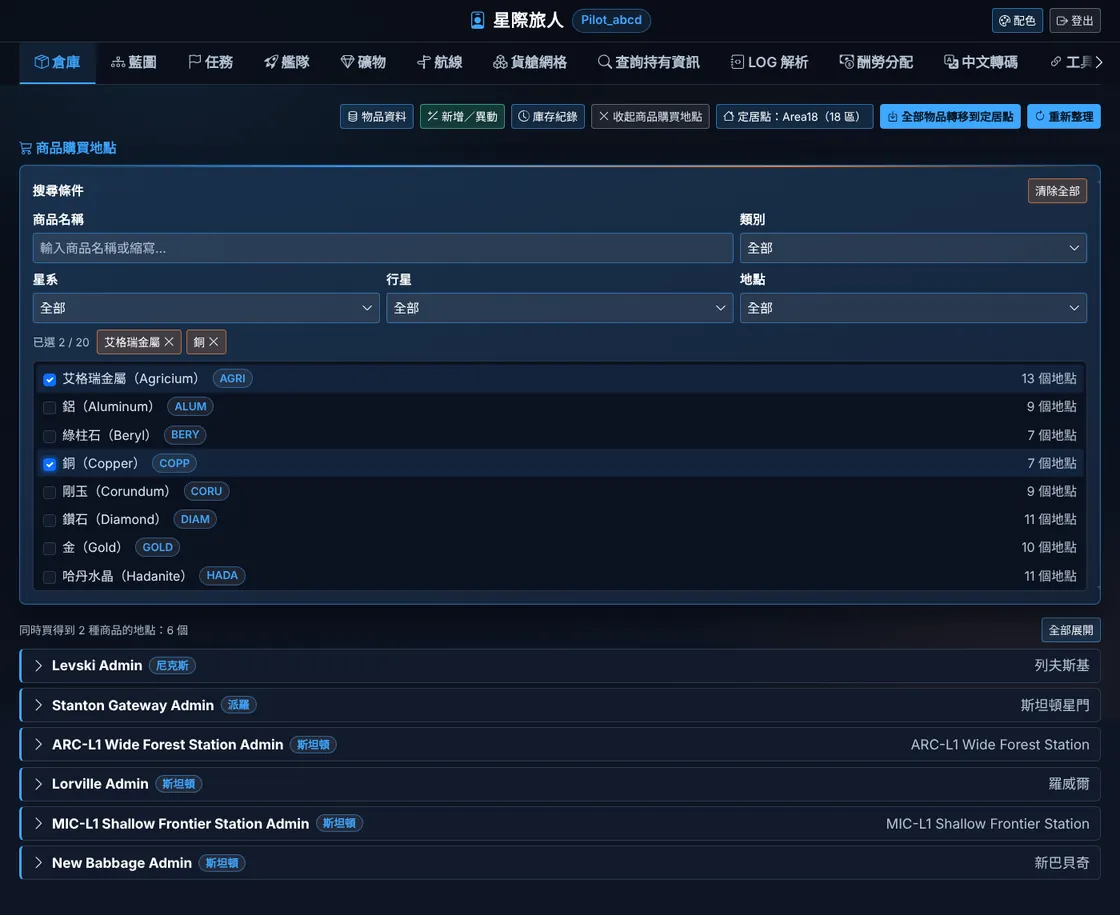
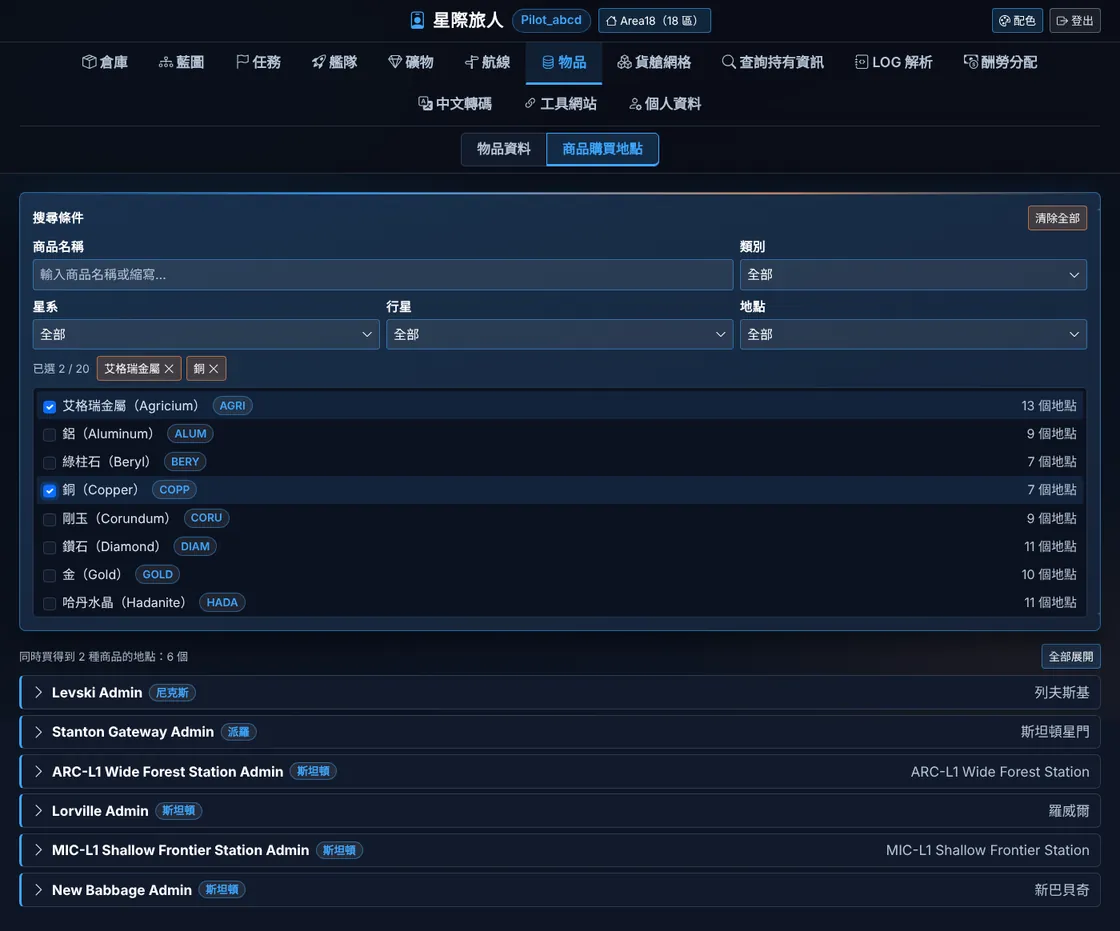
使用說明更新倉庫、物品、定居點與分頁設定的圖文

Changed region(s): [[0.0, 0.0, 1.0, 0.9792], [0.9062, 0.0, 0.9375, 0.0306]]

diff --git a/frontend/src/views/PlayerHelpView.vue b/frontend/src/views/PlayerHelpView.vue
@@ -73,31 +73,30 @@ const sections = [
         '「個人資料 › 顯示的分頁」可以把用不到的分頁藏起來。',
         '多數表單（航線、合約、貨艙、酬勞…）會記在這台瀏覽器，下次打開還在；換電腦或清除瀏覽器資料就不會留著。',
       ] },
+      { title: '定居點', figs: [{ src: 'home', alt: '名字右邊的定居點按鈕與視窗' }], items: [
+        '最上方名字右邊的按鈕顯示目前的定居點，點一下跳出視窗，可以設定或清除（從可選的居住地挑一個）。',
+        '同一個視窗下方是「全部物品轉移到定居點」：列出會移動幾筆、幾件，按「確定轉移」才送出。',
+      ] },
     ],
   },
   {
     id: 'warehouse', title: '倉庫', icon: 'bi bi-box-seam',
-    intro: '記錄自己的物品放在哪裡、有多少。上方的按鈕可以展開各個功能，搜尋卡的條件同時套用到列表。',
+    intro: '記錄自己的物品放在哪裡、有多少。上方的按鈕可以展開新增／異動、庫存紀錄，搜尋卡的條件同時套用到列表。',
     blocks: [
       { title: '物品庫存', figs: [{ src: 'warehouse', alt: '物品庫存' }], items: [
         '列出你登記的物品、地點、數量；可以依物品名稱、類型、地點篩選與排序。',
       ] },
-      { title: '新增／異動', figs: [{ src: 'warehouse_stock', alt: '新增／異動' }], items: [
-        '一次可以填好幾筆：選物品、地點、數量，每筆各自選「＋ 增加」或「－ 減少」，可以加備註，送出後寫進庫存。',
+      { title: '新增／異動', figs: [{ src: 'stock_step1', alt: '第 1 步：地點' }, { src: 'warehouse_pick', alt: '第 2 步：勾選物品' }, { src: 'warehouse_paste', alt: '貼上清單比對物品' }, { src: 'warehouse_stock', alt: '第 3 步：設定數量' }], items: [
+        '按「新增／異動」跳出視窗，分三步：地點 → 物品 → 數量；上方的步驟可以直接點回去改。',
+        '1. 地點：用星系、行星縮小範圍，選或輸入地點。會自動帶上次送出用的地點（第一次用定居點），已經有地點時直接從第 2 步開始。',
+        '2. 物品：搜尋條件跟倉庫一樣（名稱、類型、拆解材料）。物品類型預設只開量子引擎、護盾、雷達、艦炮、冷卻器、發電機六種飛船組件，需要其他類型（例如飛彈、頭盔）就在「物品類型」自己加勾，會記在這台瀏覽器；全部取消就回到預設。清單逐個勾或整頁全選，換頁、改條件都不會清掉已選的，數量不限。',
+        '「最近登記」（只列開啟的類型）點一下就勾選；「貼上清單」只比對開啟的類型，每行一個物品，數量寫在前或後都可以（例如 Atlas x2、Bulwark 3、2 Hunter），比對後「加入已選」。',
+        '3. 數量：每一項選「＋ 增加」或「－ 減少」、數量（預設 1）、備註，也可以一次全部改成增加或減少，最後「全部送出」。失敗的會留在清單上顯示原因；全部成功就回到第 2 步，同一個地點繼續登記。',
+        '庫存列表每一列的「異動」：直接帶好地點和物品（預設減少），停在第 3 步。',
+        'Discord 機器人也能登記：/add 入庫、/remove 出庫、/move 換位置。',
       ] },
       { title: '庫存紀錄', figs: [{ src: 'warehouse_history', alt: '庫存紀錄' }], items: [
         '每次增加、減少的歷史紀錄（時間、物品、地點、數量、備註）。',
-      ] },
-      { title: '定居點', items: [
-        '設定你的定居點（從可選的居住地挑一個）。',
-        '「全部物品轉移到定居點」會把所有物品的地點改成定居點，確認後才送出。',
-      ] },
-      { title: '物品資料', figs: [{ src: 'warehouse_items', alt: '物品資料' }], items: [
-        '瀏覽遊戲物品資料庫（含飛船組件），點名稱看詳細數值與購買地點。',
-        '可以只看買得到的、只看可拆解的，或依拆解後會得到的材料找物品。',
-      ] },
-      { title: '商品購買地點', figs: [{ src: 'warehouse_commodities', alt: '勾選兩種商品，列出都買得到的終端' }], items: [
-        '勾選好幾種商品，列出「全部都買得到」的交易終端，可以再依星系、行星、地點縮小範圍；價格來自 UEX 玩家回報。',
       ] },
     ],
   },
@@ -111,7 +110,7 @@ const sections = [
         '也可以展開「品質試算」：調整每個部位放的材料品質（0–1000），即時看成品各屬性的倍率。',
       ] },
       { title: '登記藍圖資料', items: [
-        '搜尋藍圖資料庫（中英文都可以），把有的藍圖登記進名冊。',
+        '按「登記藍圖資料」跳出視窗，搜尋藍圖資料庫（中英文都可以），把有的藍圖登記進名冊。',
         '可以「只顯示未登記」、「只看需任務解鎖」的藍圖。',
       ] },
     ],
@@ -124,7 +123,7 @@ const sections = [
         '藍圖欄顯示這個任務會給的藍圖中，你已登記幾張／共幾張；點一列看說明、條件、每個獎勵池的藍圖與掉落機率。',
       ] },
       { title: '勢力聲望', items: [
-        '選一個勢力，列出它的聲望階級與門檻分數，以及每個階級才能接的任務。',
+        '按「勢力聲望」跳出視窗，選一個勢力，列出它的聲望階級與門檻分數，以及每個階級才能接的任務。',
       ] },
     ],
   },
@@ -137,7 +136,7 @@ const sections = [
         '「航線」與「貨艙網格」會把機庫裡的船排在最前面。',
       ] },
       { title: '登記船艦資料', items: [
-        '瀏覽艦船資料庫，依名稱、類型、尺寸、廠商、價格、貨物量、取得方式篩選，把船加進艦隊。',
+        '按「登記船艦資料」跳出視窗，瀏覽艦船資料庫，依名稱、類型、尺寸、廠商、價格、貨物量、取得方式篩選，把船加進艦隊。',
       ] },
       { title: 'JSON 匯入', items: [
         '用瀏覽器擴充功能 HangarXPLOR 在 RSI 機庫頁匯出的 JSON，一次匯入整個機庫。',
@@ -180,6 +179,19 @@ const sections = [
         '按「分析分配」，得到「最快完成」「總時間最少」「總油量最少」三種方案：哪一趟貨給哪一隊，以及各隊的航段表與 3D 星圖。',
         '同名商品分屬不同合約時會提醒取貨時分開放、送貨時分開繳交；外掛貨櫃船（Hull 系列）只會派到有外部貨運的站。',
         '各隊的航段表一樣可以標已去過、調整順序、中途插入重新規劃。',
+      ] },
+    ],
+  },
+  {
+    id: 'items', title: '物品', icon: 'bi bi-database',
+    intro: '分「物品資料」和「商品購買地點」兩個子分頁。',
+    blocks: [
+      { title: '物品資料', figs: [{ src: 'warehouse_items', alt: '物品資料' }], items: [
+        '瀏覽遊戲物品資料庫（含飛船組件），點名稱看詳細數值與購買地點。',
+        '可以依名稱、類型篩選，只看買得到的、只看可拆解的，或依拆解後會得到的材料找物品。',
+      ] },
+      { title: '商品購買地點', figs: [{ src: 'warehouse_commodities', alt: '勾選兩種商品，列出都買得到的終端' }], items: [
+        '勾選好幾種商品，列出「全部都買得到」的交易終端，可以再依星系、行星、地點縮小範圍；價格來自 UEX 玩家回報。',
       ] },
     ],
   },
@@ -240,7 +252,7 @@ const sections = [
     blocks: [
       { figs: [{ src: 'profile', alt: '個人資料' }], items: [
         '修改暱稱、查看 Discord 綁定、更改密碼。',
-        '「顯示的分頁」：勾選要顯示哪些分頁。',
+        '「顯示的分頁」：勾選要顯示哪些分頁；有些分頁預設不顯示，需要時在這裡打開。',
       ] },
     ],
   },

diff --git a/README.md b/README.md
@@ -139,7 +139,7 @@ docker compose exec api git log --oneline -1 2>/dev/null || docker compose exec 
 | 資料庫檢視 | http://localhost:8080/admin/data | 唯讀，沒有專屬後台頁面的資料表（Wiki 商品、藍圖品質、UEX 物品／載具／原礦價格、UEX 精煉四張表、翻譯、同步紀錄…）依類別列出筆數，點一個看文件：可選欄位＋關鍵字搜尋、點欄位名稱排序，點一列看完整內容（含 raw）。開放的資料表在 `src/models/data_browser.py` 的 CATALOG，帳號、玩家、token 一律不列；API 在 `/data/collections`。礦物資料庫的「精煉站」分頁用同一套列出 UEX 精煉資料 |
 | 商品資料庫 | http://localhost:8080/admin/commodities | 唯讀，由「UEX 價格」同步項目更新（需 UEX token）。三個分頁直接列資料庫內容方便檢查：「商品」UEX 商品（縮寫代碼如 AGRI、QUAN、類別、參考買賣價、屬性，每筆列出關聯的礦物）；「商品價格」`uex_commodities_prices`（商品 × 交易終端的買價／庫存／賣價／更新時間，後端分頁）；「交易終端」`uex_terminals`（地點、類型、屬性、可買／可賣商品數） |
 | 登記船艦資料／船艦價格 | http://localhost:8090/player/me?tab=fleet&sub=data | 玩家頁「艦隊 › 登記船艦資料」：用艦隊分頁頂端的共用搜尋卡篩選載具主檔（含「取得方式」：只看可用遊戲幣購買／可租船，多選取聯集；後台艦船列表也有，API 參數 `acquire=buy|rent`），列表直接顯示類型、尺寸、廠商、角色；每列有「登記」按鈕（登記 1 艘到我的艦隊），也能勾選多款一次登記（原本的「批量登記」併進來，已登記的標示並禁止重複）。點開看載員、貨艙、質量與價格：官網現金價（`msrp`，美金）、遊戲內最低購買價與租船價（UEX，aUEC）以及每個購買／租船地點。我的艦隊每艘船也顯示這三個價格。後台「艦船」列表多「遊戲內購買」「租船」兩欄（點開看地點），另有「購買價格」「租船價格」分頁列 UEX 價格表原始內容（含對不到載具主檔的） |
-| 商品購買地點 | http://localhost:8090/player/me?tab=search&sub=commodities | 玩家頁「查詢」：篩選並勾選多種商品（最多 20 種），列出**全部都買得到**的交易終端（蜂巢式下拉：終端 → 每種商品的買價、庫存、UEX 回報時間），可限定星系；沒有結果時列出每種商品各自買得到的地點數。資料是 `uex_commodities_prices`（`src/models/uex_commodity_price.py`） |
+| 商品購買地點 | http://localhost:8090/player/me?tab=items&sub=commodities | 玩家頁「物品 › 商品購買地點」：篩選並勾選多種商品（最多 20 種），列出**全部都買得到**的交易終端（蜂巢式下拉：終端 → 每種商品的買價、庫存、UEX 回報時間），可限定星系；沒有結果時列出每種商品各自買得到的地點數。資料是 `uex_commodities_prices`（`src/models/uex_commodity_price.py`） |
 | 任務／勢力資料庫 | http://localhost:8080/admin/missions ／ `/admin/factions` | 唯讀，資料由同步排程從 Star Citizen Wiki API 抓（任務帶獎勵藍圖池），中文由翻譯資料庫比對。玩家頁藍圖名稱可點開看解鎖任務；玩家頁「任務」分頁（`/player/me?tab=missions`）用共用搜尋卡篩名稱／類型／星系／勢力／合法性／只看有藍圖，藍圖欄顯示任務會給的藍圖自己已登記幾張（預設可用的視同已登記），點一列看說明（含聲望門檻：勢力＋階級＋門檻分數、接取星系）與各獎勵池藍圖的已登記／未登記；工具列「勢力聲望」選勢力看聲望階級，每一階列出要到這個階級才能接的任務（`/mission/factions/<id>/reputation`、`/mission/factions/ladders`） |
 | 玩家站根路徑 | http://localhost:8090/ | 導到 `/player/me`；未登入者落在玩家登入頁。給玩家發網址直接用根路徑就好。玩家頁面一律在 `/player/` 底下、後台頁面一律在 `/admin/` 底下；舊網址（`/me`、`/login`、`/register`、玩家站上的 `/mining` 這類後台頁）會自動導到新位置。頁面網址跟 API 前綴同名（例如 `/player/me`）時，nginx 用 `Sec-Fetch-Mode: navigate` 判斷整頁導覽回 SPA、fetch 才轉給 api |
 | 玩家站上的後台 | http://localhost:8090/admin/login | 同一份 SPA 也含後台頁面，網址在 `/admin/` 底下（例如 `/admin/mining`）。管理員平常請走 8080 |
